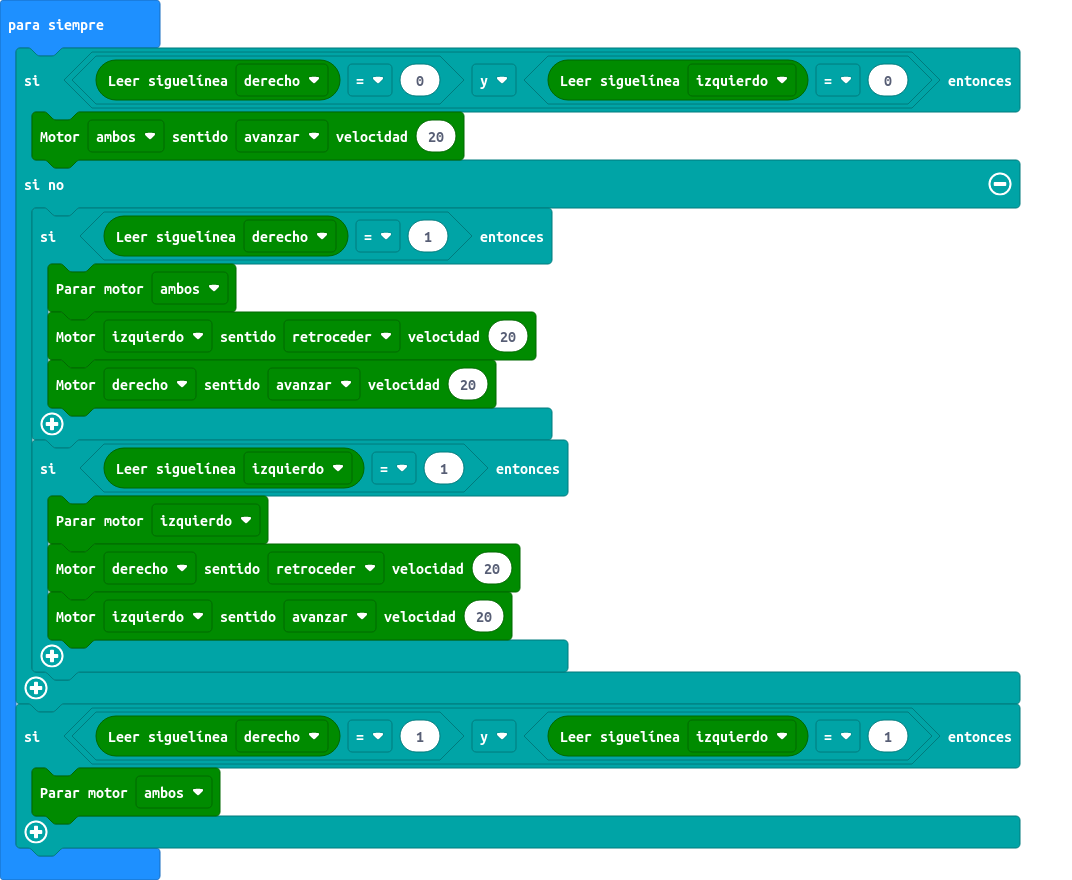
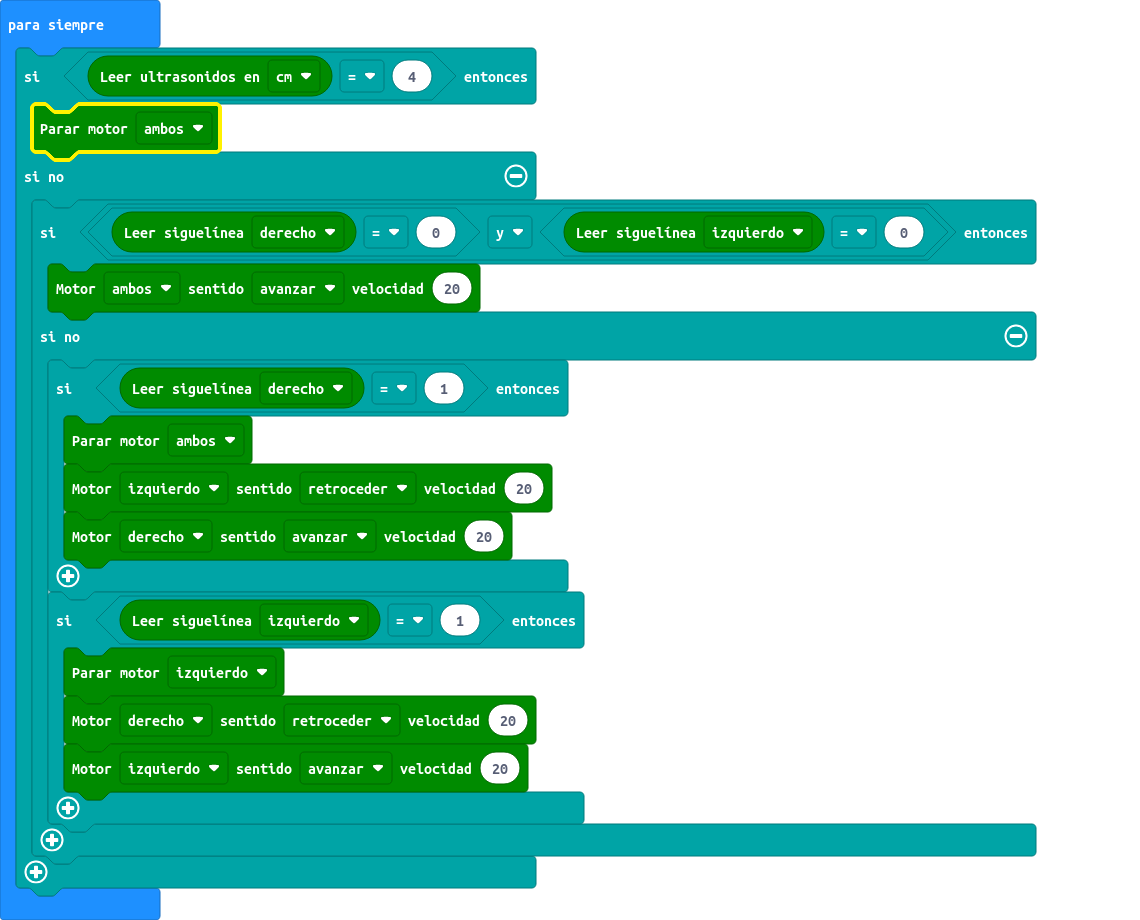
kk

diff --git a/main.ts b/main.ts
@@ -1,19 +1,20 @@
 basic.forever(function () {
-    if (maqueen.readPatrol(maqueen.Patrol.PatrolRight) == 0 && maqueen.readPatrol(maqueen.Patrol.PatrolLeft) == 0) {
-        maqueen.motorRun(maqueen.Motors.All, maqueen.Dir.CW, 20)
-    } else {
-        if (maqueen.readPatrol(maqueen.Patrol.PatrolRight) == 1) {
-            maqueen.motorStop(maqueen.Motors.All)
-            maqueen.motorRun(maqueen.Motors.M1, maqueen.Dir.CCW, 20)
-            maqueen.motorRun(maqueen.Motors.M2, maqueen.Dir.CW, 20)
-        }
-        if (maqueen.readPatrol(maqueen.Patrol.PatrolLeft) == 1) {
-            maqueen.motorStop(maqueen.Motors.M1)
-            maqueen.motorRun(maqueen.Motors.M2, maqueen.Dir.CCW, 20)
-            maqueen.motorRun(maqueen.Motors.M1, maqueen.Dir.CW, 20)
-        }
-    }
-    if (maqueen.readPatrol(maqueen.Patrol.PatrolRight) == 1 && maqueen.readPatrol(maqueen.Patrol.PatrolLeft) == 1) {
+    if (maqueen.Ultrasonic(PingUnit.Centimeters) == 4) {
         maqueen.motorStop(maqueen.Motors.All)
+    } else {
+        if (maqueen.readPatrol(maqueen.Patrol.PatrolRight) == 0 && maqueen.readPatrol(maqueen.Patrol.PatrolLeft) == 0) {
+            maqueen.motorRun(maqueen.Motors.All, maqueen.Dir.CW, 20)
+        } else {
+            if (maqueen.readPatrol(maqueen.Patrol.PatrolRight) == 1) {
+                maqueen.motorStop(maqueen.Motors.All)
+                maqueen.motorRun(maqueen.Motors.M1, maqueen.Dir.CCW, 20)
+                maqueen.motorRun(maqueen.Motors.M2, maqueen.Dir.CW, 20)
+            }
+            if (maqueen.readPatrol(maqueen.Patrol.PatrolLeft) == 1) {
+                maqueen.motorStop(maqueen.Motors.M1)
+                maqueen.motorRun(maqueen.Motors.M2, maqueen.Dir.CCW, 20)
+                maqueen.motorRun(maqueen.Motors.M1, maqueen.Dir.CW, 20)
+            }
+        }
     }
 })
